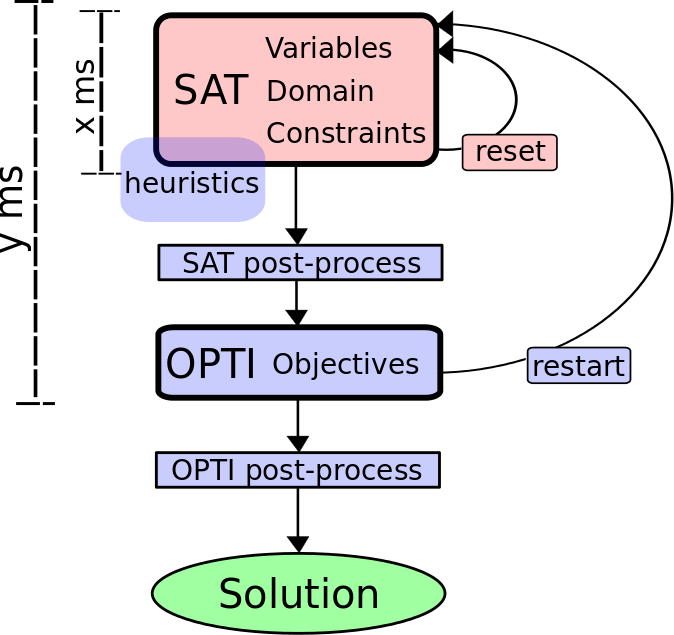
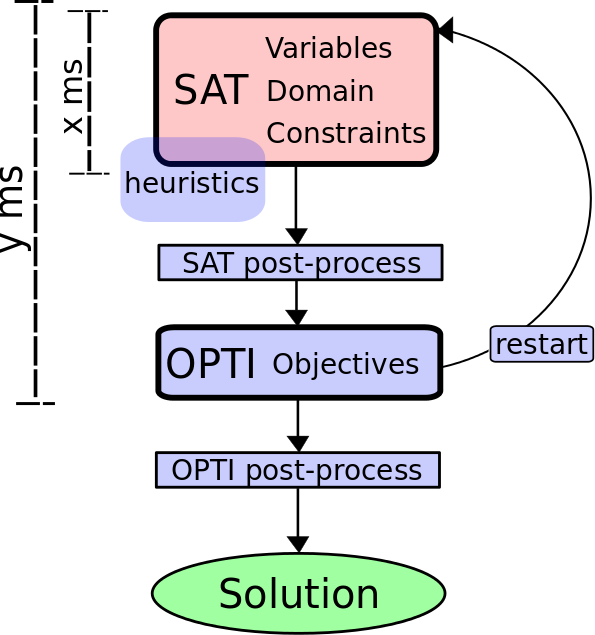
ghost archi: done

diff --git a/paper/ghost.tex b/paper/ghost.tex
@@ -343,8 +343,8 @@ Diaz~\cite{Codognet01}. The reason we have chosen a meta-heuristics is
 simple: To solve combinatorial and optimization problems while playing
 a RTS  game, the  solver needs  to be  very fast  to find  a solution,
 within some tens  of milliseconds, which is  virtually impossible with
-tree-based  search  algorithms. The  reason  we  have chosen  Adaptive
-Search is that,  although it is not a well-known  algorithm, it is one
+tree-based search algorithms. The reason we have chosen {\it Adaptive
+Search} is that,  although it is not a well-known  algorithm, it is one
 of the fastest meta-heuristics at the moment, up to our knowledge (see
 Caniou et al.~\cite{Caniou14}).
 
@@ -397,25 +397,88 @@ RTS-related problems,  as soon as  they are modeled  into a \csp  or a
 \begin{figure}[th]
   \centering
   \includegraphics[width=\columnwidth]{figs/archi2.png}
-  \caption{\ghost architecture}
+  \caption{\ghost architecture: In red, the satisfaction inner
+    loop,  running  for  $x$  milliseconds top.  In  blue,  optimization
+    mechanisms.    The   whole    process,   excluding    optimization
+    post-process, runs under $y$ milliseconds.}
   \label{fig:archi}
 \end{figure}
 %--------------
 
-There are only three parameters in  the solver: The two first ones are
-temporal parameters. 
+The  function \texttt{solve}  defined in  \texttt{Solver} follows  the
+steps exposed  in Figure~\ref{fig:archi}. It  is composed of  two main
+loops: the outer loop for  optimization, containing the inner loop for
+satisfaction.      The     satisfaction     part,    in     red     in
+Figure~\ref{fig:archi}, only  tries to find a  possible solution among
+all configurations, \ie, tries to  find an assignment of each variable
+such that all constraints of the \csp are satisfied. It is possible to
+call \texttt{Solver::solve} without  defining any objective functions.
+In  that case,  a null,  default objective  is applied,  doing nothing
+special,  and the  solver will  about  a solution  that satisfied  all
+constraints, if it find such one.
 
+If an ``real'' objective function  is set, then the optimization part,
+in blue  in Figure~\ref{fig:archi}, is  triggered. Even more:  it will
+influence  the satisfaction  part (finding  a valid  solution) if  the
+objective  implements optional  heuristics to  select the  variable to
+change and the value to assign,  if the current configuration is not a
+solution.
 
-Even parameters Actually, experiments presented in the next sections shown
-that no parameters  tuning is necessary to have  good performance: The
-only  real parameter  of the  solver is  set to  a default  value that
-leaded  to the  best results  in all  our experiments.  Of course,  it
-remains possible to change this value by the developed user.
+The  optimization   part  also   applies  two   optional  post-process
+optimizations, one on the output of  the satisfaction loop, one on the
+final output,  giving the  solution returned by  the solver.   We will
+detail  later  the  purpose  of   such  functions,  in  particular  in
+Section~\ref{sec:wall}.
 
+The fundamental  thing in  the optimization  part is  the optimization
+loop itself. To explain how this  loop works, we have to introduce the
+two temporal  parameters in \ghost. The  function \texttt{solve} takes
+two parameters: The first one,  mandatory, is the satisfaction timeout
+$x$ in  milliseconds.  It means  that, if after  $x$ ms, we  leave the
+satisfaction loop, certainly  without a valid solution  since the loop
+stops as soon  as it finds a solution. The  second parameter, optional
+this time, is the optimization timeout $y$, always in milliseconds. It
+corresponds  also  to   the  total  runtime  of   \ghost,  modulo  the
+post-process  after  the optimization  loop  (which  is negligible  in
+practice and should  be about 100 times smaller than  $y$). If the $y$
+parameter is not given, then it is set to 10 times $x$.
 
-A developed user  has to build his own classes  upon theses first four
-ones,  by inheriting  from  it. For  instance, to  create  a class  of
-variables     representing     units,      this     is     done     by
+Thus, the optimization  loop repeats $n$ times  the satisfaction loop,
+and receives  in total $m \leq  n$ valid solutions. After  receiving a
+new  solution for  the  satisfaction loop,  and  applying an  eventual
+satisfaction post-process, it calls  the objective function to compute
+the optimization  cost, compares it  with its saved solution  (if any)
+and  keeps the  solution with  the lower  cost.  Then  it repeats  the
+satisfaction loop  to obtain a new  solution, and so on,  until $y$ ms
+are reached.
+
+Thus, \ghost is  applying a sort of Monte Carlo  sampling. Notice that
+this is  not MCTS.  It  would certainly  possible to implement  a MCTS
+though  \ghost, by  twisting derived  classes from  \texttt{Variable},
+\texttt{Domain},  \texttt{Constraint} and  \texttt{Objective}, however
+the authors do  not recommend to use \ghost this  way, since it should
+be more efficient to develop a proper, ad-hoc MCTS program.
+
+There exists a third and last  parameters in the solver: The length of
+the tabu list.  Indeed, {\it Adaptive  Search} contains a tabu list of
+explored variables in order to not  revisit the same variable too soon
+during the search. The tabu parameter  is then a number expressing how
+long  the solver  has  to  wait before  being  allowed  to revisit  an
+explored variable. Actually, we  also have implement escape mechanisms
+to not make  this tabu list strict,  by allowing the solver  to draw a
+tabu   variable   if   there   really   are   no   other   interesting
+variables. Thus, \ghost's tabu list is more like a priority list.
+
+During our  experiments presented  in the  next sections,  we realized
+that  the  same  value  for  this parameter  was  leading  to  optimal
+performances, when  set to $|V|-1$.  It  is a priori not  necessary to
+tune this  parameter, however this  remains of course possible  to the
+developer user.
+
+A developer user has to  build his own classes upon \texttt{Variable},
+\texttt{Domain},   \texttt{Constraint}   and  \texttt{Objective},   by
+inheriting from  them. For  instance, to create  a class  of variables
+representing        units,        this        is        done        by
 \texttt{class~Unit~:~public~Variable}.   Classes  composed  for  other
 classes, like \texttt{Domain} which need  to know on what variables it
 will work with, must instantiate  the right templates. Thus, declaring
